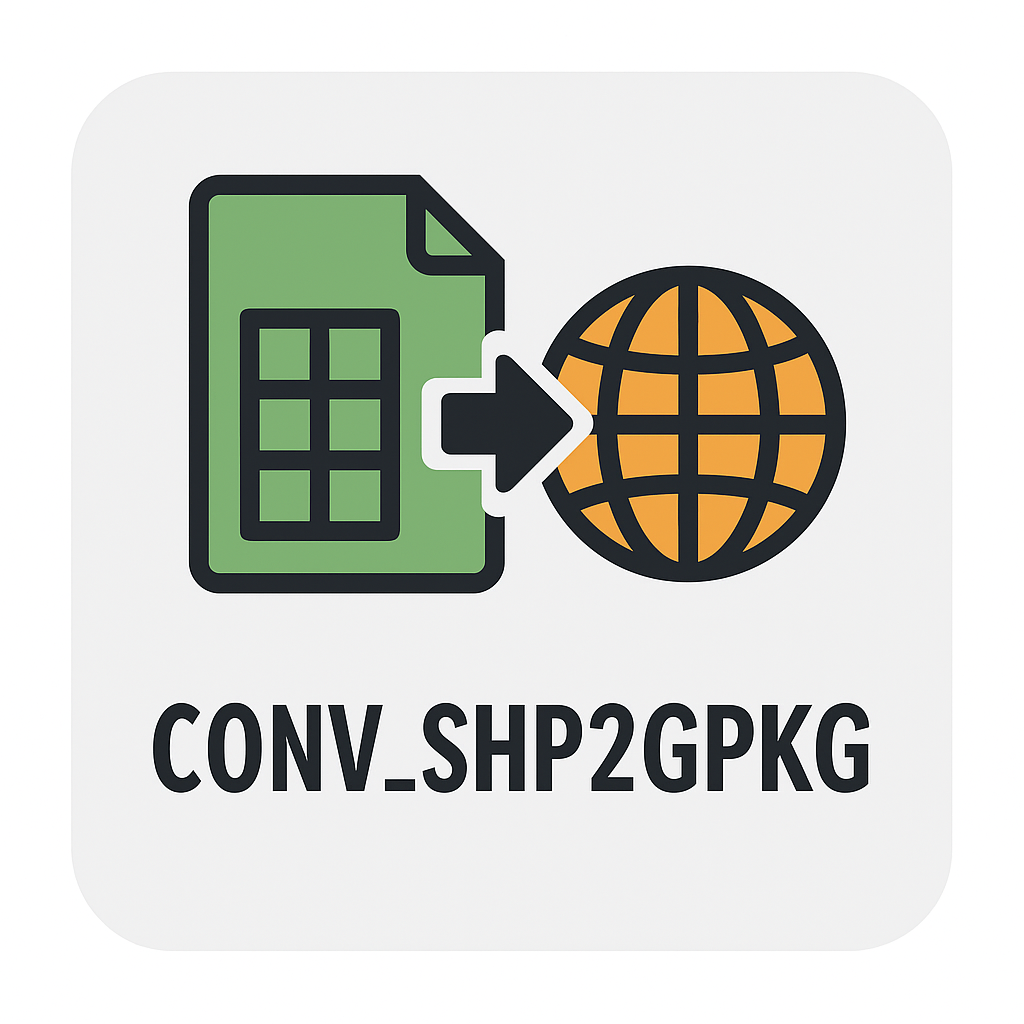
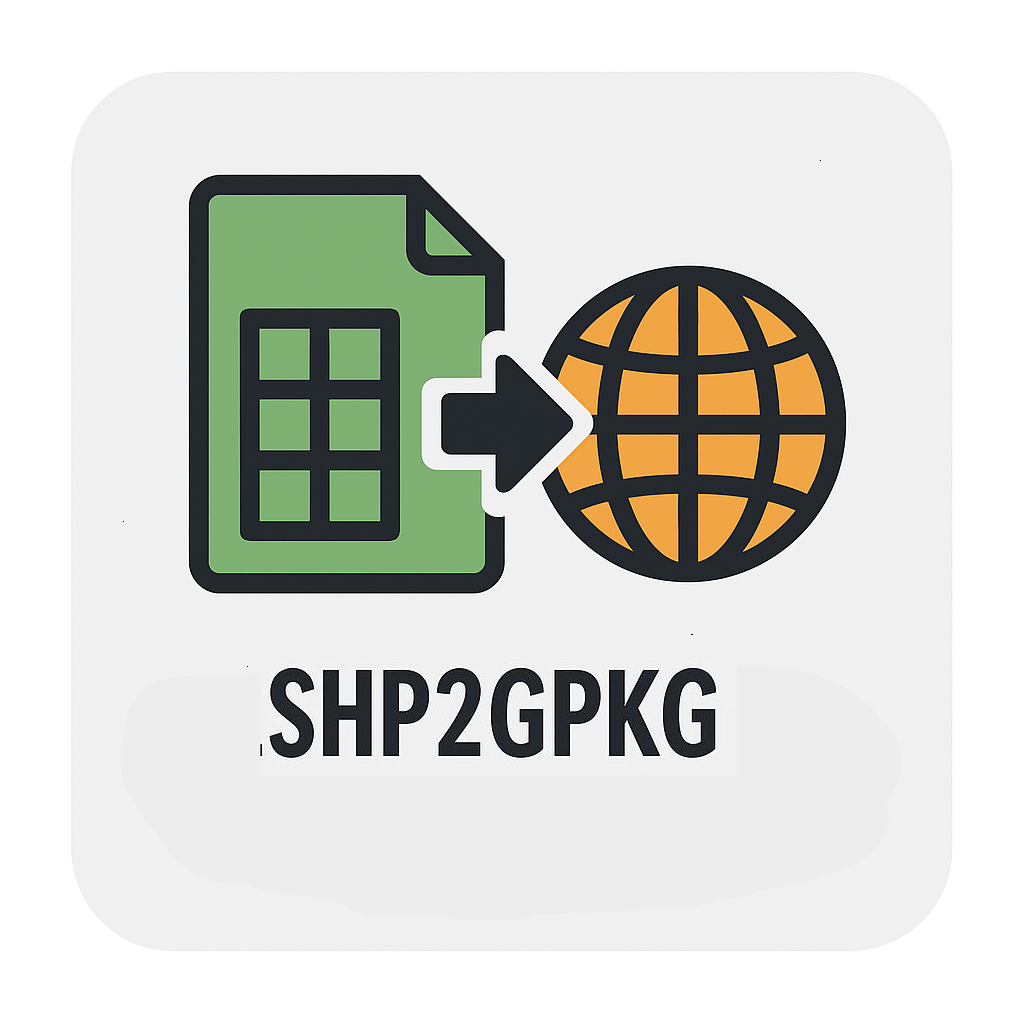
Rebranding de la herramienta

Changed region(s): [[0.125, 0.6562, 0.875, 0.7812]]

diff --git a/setup.py b/setup.py
@@ -1,7 +1,7 @@
 from setuptools import setup, find_packages
 
 setup(
-    name="conv_shp2gpkg",
+    name="shp2gpkg",
     version="0.1",
     packages=find_packages(),
     install_requires=[
@@ -9,7 +9,7 @@ setup(
     ],
     entry_points={
         "console_scripts": [
-            "conv_shp2gpkg=conv_shp2gpkg.__main__:main",
+            "shp2gpkg=shp2gpkg.__main__:main",
         ]
     },
     author="Kevin",

diff --git a/README.md b/README.md
@@ -1,11 +1,11 @@
 
-# Herramienta conv_shp2gpkg
+# Herramienta shp2gpkg
 
 <p align="center">
-  <img src="assets/icono.png" alt="conv_shp2gpkg icono" width="150"/>
+  <img src="assets/icono.png" alt="shp2gpkg icono" width="150"/>
 </p>
 
-**conv_shp2gpkg** es una herramienta de línea de comandos escrita en Python que convierte archivos Shapefile (.shp) en GeoPackage (.gpkg), 
+**shp2gpkg** es una herramienta de línea de comandos escrita en Python que convierte archivos Shapefile (.shp) en GeoPackage (.gpkg), 
 reproyectándolos al sistema de coordenadas deseado. Ideal para flujos de trabajo SIG automatizados.
 
 ---
@@ -37,10 +37,18 @@ pip install -r requirements.txt
 
 ---
 
+## 🚀 Instalación
+
+```bash
+git clone https://github.com/tuusuario/conv_shp2gpkg.git
+cd conv_shp2gpkg
+pip install .
+
+
 ## 🚀 Uso
 
 ```bash
-python -m conv_shp2gpkg --entrada "ruta/a/las/capas" --salida "ruta/destino/gpkg" --epsg 32616
+python -m shp2gpkg --entrada "ruta/a/las/capas" --salida "ruta/destino/gpkg" --epsg 32616
 ```
 
 ### Parámetros
@@ -57,7 +65,7 @@ python -m conv_shp2gpkg --entrada "ruta/a/las/capas" --salida "ruta/destino/gpkg
 ## 🧪 Ejemplo
 
 ```bash
-python -m conv_shp2gpkg --entrada "C:/SIG/DatosBrutos" --salida "C:/SIG/Geopackages" --epsg 32616
+python -m shp2gpkg --entrada "C:/SIG/DatosBrutos" --salida "C:/SIG/Geopackages" --epsg 32616
 ```
 
 ---

diff --git a/CONTRIBUTING.md b/CONTRIBUTING.md
@@ -1,4 +1,4 @@
-# Contribuir a conv_shp2gpkg
+# Contribuir a shp2gpkg
 
 ¡Gracias por tu interés en contribuir a este proyecto!
 
